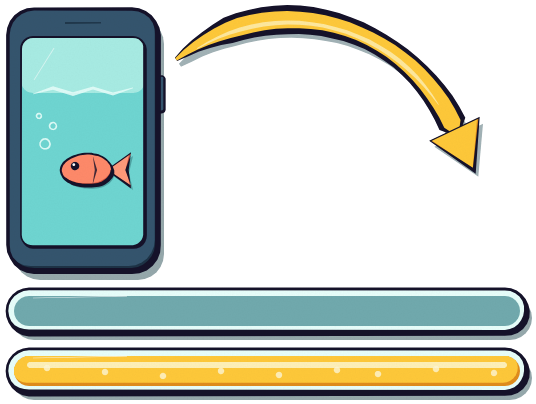
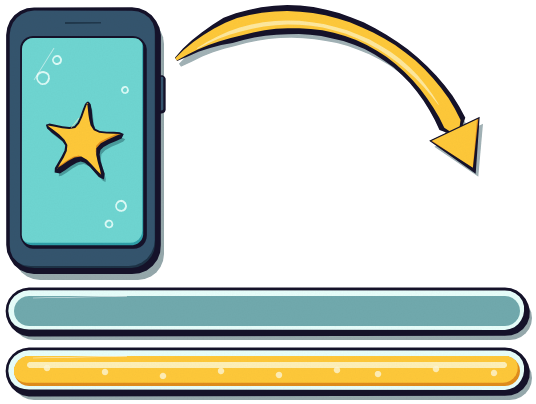
Banc Android : « tourne ton téléphone » avec l'étoile de mer (lisible dans les deux sens), parcours du lot banc-android.mjs
Claude-Session: https://claude.ai/code/session_01QbaC25gvw8AtP4Ab5evz8m

diff --git a/art/src/canvas-core/sea/demarrage.ts b/art/src/canvas-core/sea/demarrage.ts
@@ -4,6 +4,7 @@
 // celui de l'écran de démarrage est découpé dans l'image du parent, maquette art/logo/, art/tools/export-logo.mjs.)
 import type { Gfx, P } from "../core";
 import { blob, fillShape, ink, smooth } from "../gallery";
+import * as O from "../ocean";
 import { cel, contour, INK, shift } from "../oceanMarker";
 
 const SHADOW = "#06323b";
@@ -44,15 +45,13 @@ export const drawPhone = (g: Gfx, cx: number, cy: number) => g.group("plain", ()
   const body = rrect(cx, cy, PHONE_W, PHONE_H, 26), screen = rrect(cx, cy + 2, PHONE_W - 26, PHONE_H - 52, 12);
   fillShape(g, shift(body, 6, 9), SHADOW, 0.45);
   cel(g, body, "#35556e", "#1d3346", 6);
-  // l'écran : le lagon, plus clair en haut ; une ride à la surface, un poisson corail
-  cel(g, screen, "#6fd6d2", "#2f9fa9", 0, [shift(rrect(cx, cy - 58, PHONE_W - 26, 70, 12), 0, -24), "#a8ece4"]);
-  ink(g, [[cx - 50, cy - 46], [cx - 30, cy - 52], [cx - 10, cy - 46], [cx + 10, cy - 52], [cx + 30, cy - 46], [cx + 50, cy - 52]], "#e9fffb", { w: 3.4, shadow: 0, taper: [0.2, 0.2], seed: 9431 }, 0.85);
-  const fx = cx + 4, fy = cy + 30, fish = blob(fx, fy, 26, 16, 9440, 0.06, 12), tail: P[] = [[fx + 20, fy], [fx + 44, fy - 17], [fx + 40, fy], [fx + 44, fy + 17]];
-  fillShape(g, shift(tail, 2, 3), SHADOW, 0.3); cel(g, tail, "#ff9a7a", "#c64d3c", 2); contour(g, tail, 2.4, 9441);
-  fillShape(g, shift(fish, 2, 3), SHADOW, 0.3); cel(g, fish, "#ff8a6a", "#d4553f", 3); contour(g, fish, 2.8, 9442);
-  ink(g, [[fx + 6, fy - 13], [fx + 9, fy], [fx + 6, fy + 13]], INK, { w: 2, shadow: 0, taper: [0.3, 0.3], seed: 9443 }, 0.8); // l'ouïe
-  fillShape(g, blob(fx - 12, fy - 4, 4.2, 4.2, 9444, 0.03, 10), INK); fillShape(g, blob(fx - 13.2, fy - 5.4, 1.4, 1.4, 9445, 0.02, 8), "#ffffff");
-  for (const [bx, by, r] of [[cx - 38, cy + 4, 5], [cx - 30, cy - 14, 3.4], [cx - 44, cy - 24, 2.4]] as const) ink(g, blob(bx, by, r, r, 9450 + r, 0.05, 10), "#e9fffb", { w: 1.6, closed: true, shadow: 0, seed: 9460 + r }, 0.9);
+  // l'écran : le lagon, et l'étoile de mer du compteur au milieu (elle se lit dans les deux sens : le téléphone pivote) ; des
+  // bulles autour
+  cel(g, screen, "#6fd6d2", "#2f9fa9", 5);
+  const st = O.starShape([cx, cy + 2], 40, 17, 0.12);
+  fillShape(g, shift(st, 3, 5), SHADOW, 0.35); cel(g, st, "#ffc93a", "#e08d1c", 4); contour(g, st, 3.2, 9442);
+  ink(g, [[cx - 12, cy - 12], [cx - 4, cy - 22]], "#fff1b8", { w: 3.4, shadow: 0, taper: [0.3, 0.3], seed: 9443 }, 0.9);
+  for (const [bx, by, r] of [[cx - 40, cy - 62, 6], [cx - 26, cy - 80, 4], [cx + 38, cy + 66, 5], [cx + 26, cy + 84, 3.4], [cx + 42, cy - 50, 3]] as const) ink(g, blob(bx, by, r, r, 9450 + r, 0.05, 10), "#e9fffb", { w: 1.8, closed: true, shadow: 0, seed: 9460 + r }, 0.9);
   contour(g, screen, 2.6, 9446);
   // le reflet de la vitre, en haut à gauche
   ink(g, [[cx - PHONE_W / 2 + 26, cy - 60], [cx - PHONE_W / 2 + 46, cy - 92]], "#ffffff", { w: 5, shadow: 0, taper: [0.3, 0.3], seed: 9447 }, 0.55);

diff --git a/app/sw.js b/app/sw.js
@@ -24,7 +24,7 @@
 //    essayé en même temps, et sans l'un ni l'autre une page de secours, écrite ici, dit « Toucher pour réessayer » ;
 //  - ce qui arrive au service worker (version, installation, activation, erreurs) est noté dans le journal technique de
 //    l'espace parent (point 5 ; la même base que engine/journal.js).
-const VERSION = "eda695a2dd38";
+const VERSION = "d80a5deefa29";
 const CACHE = `ocean-${VERSION}`;
 const PAQUET = 32, ESSAIS = 4;
 // la résolution des planches d'images de cet écran (main.js : sw.js?r=1 ou ?r=2) : on ne met en cache que
